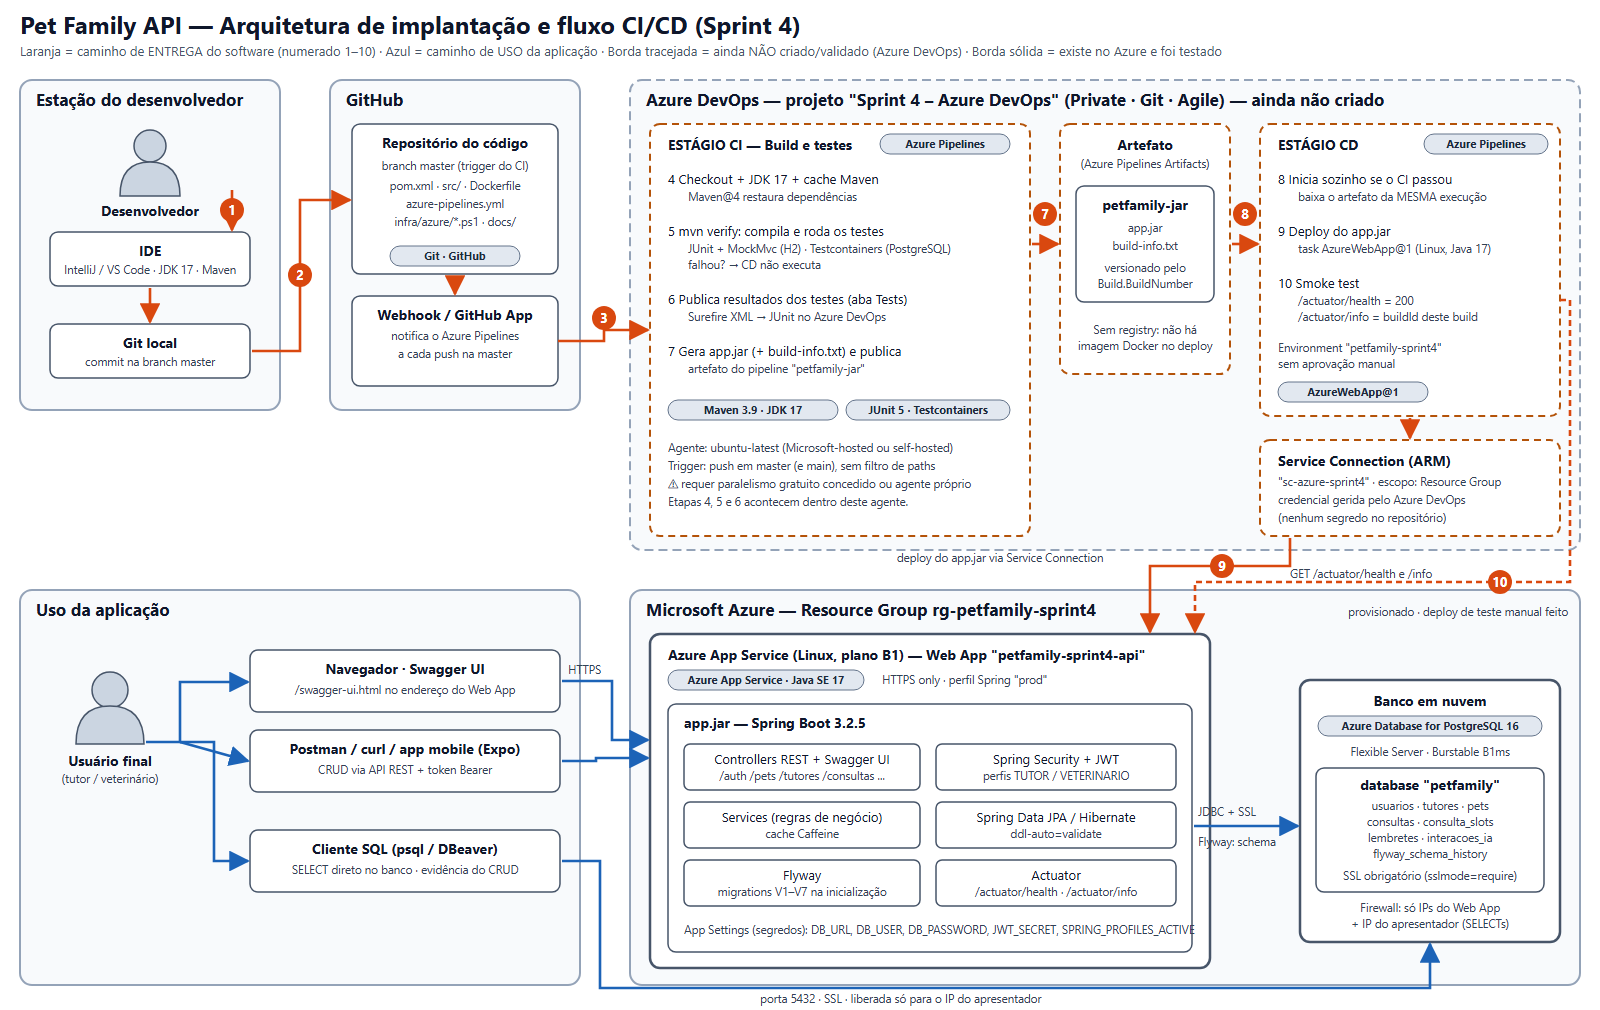
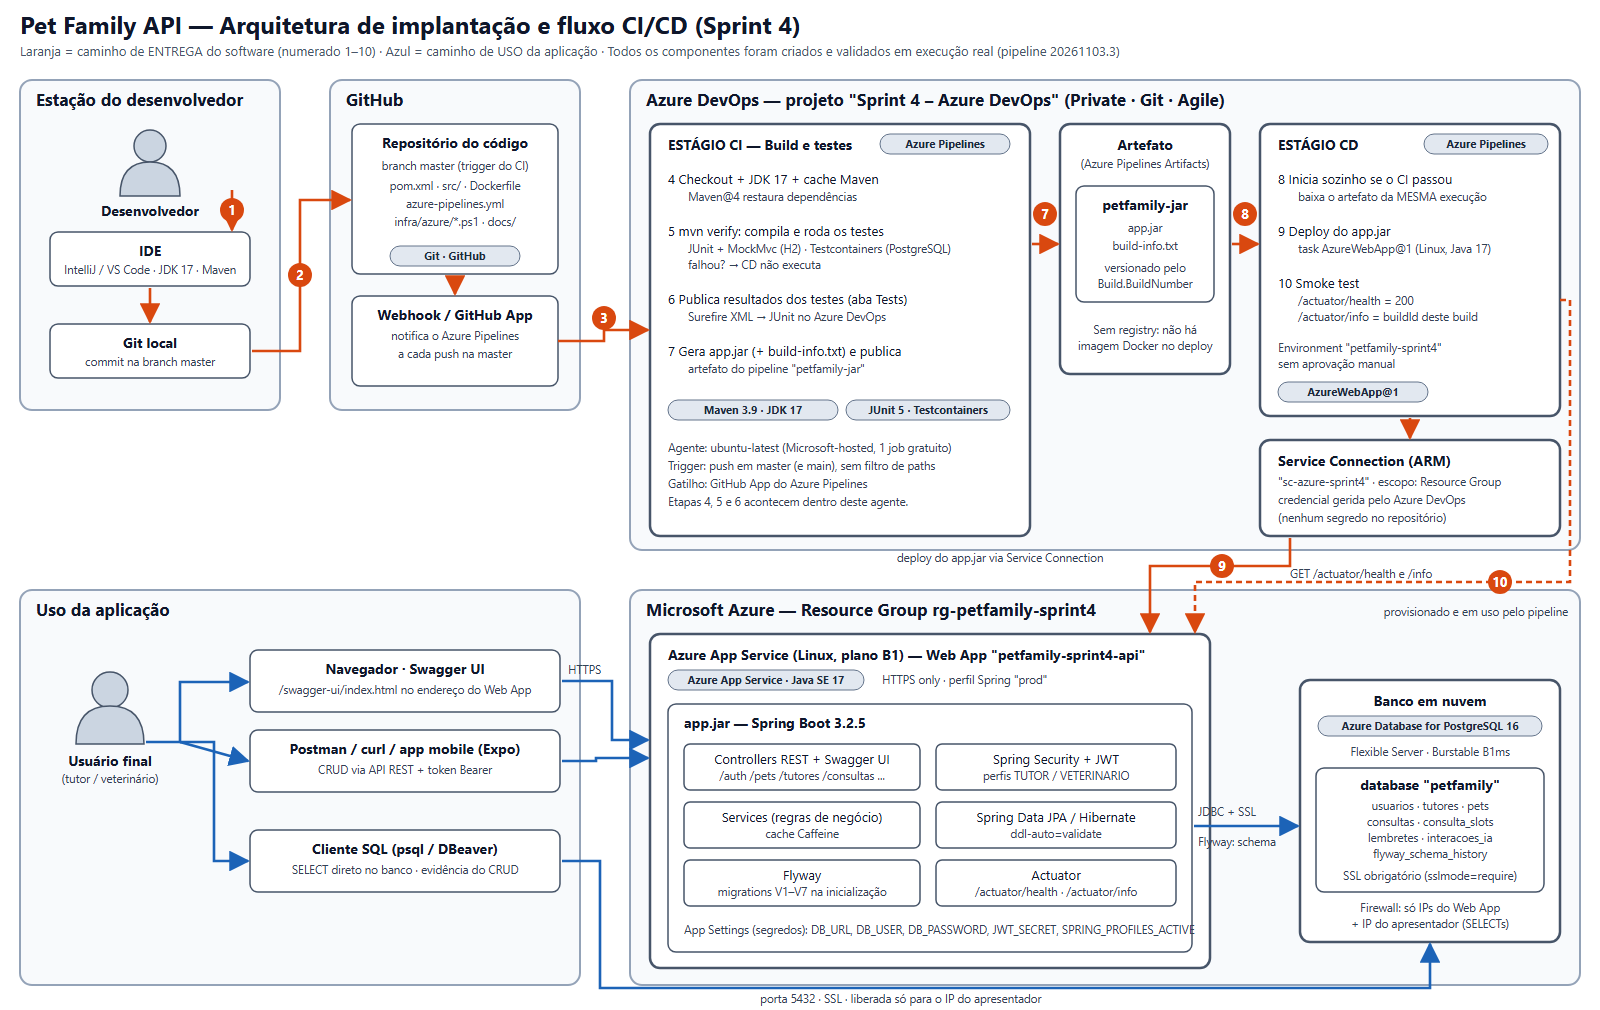
docs: atualiza README, diagrama e links da entrega da Sprint 4

diff --git a/README.md b/README.md
@@ -1,19 +1,21 @@
 # Pet Family API
 
 > Backend RESTful para acompanhamento contínuo da saúde dos pets
-> **Challenge CLYVO VET 2026 — FIAP | Java Advanced — Entrega 3**
+> **Challenge CLYVO VET 2026 — FIAP | Java Advanced (Entrega 3) · DevOps Tools & Cloud Computing (Sprint 4)**
 
-🎥 **Vídeo de apresentação:** [https://youtu.be/YUA4fIXr-tg](https://youtu.be/YUA4fIXr-tg)
+## Links da entrega
 
----
-  
-🌐 **API online (deploy):** [https://petfamily-api.onrender.com](https://petfamily-api.onrender.com)                         
-❤ **Health check:** [https://petfamily-api.onrender.com/actuator/health](https://petfamily-api.onrender.com/actuator/health)  
-📖 **Swagger:** [https://petfamily-api.onrender.com/swagger-ui.html](https://petfamily-api.onrender.com/swagger-ui.html)
-
-> ⏱ A API roda no plano gratuito do Render e "dorme" após ~15 min sem uso. A primeira requisição depois disso pode levar até 1–2 minutos (cold start).
-
-📱 **Repositório do app mobile:** [https://github.com/PET-FAMILYY/PET-FAMILY-MOBILE](https://github.com/PET-FAMILYY/PET-FAMILY-MOBILE)
+| Item | Link |
+|---|---|
+| Repositório GitHub | [PET-FAMILYY/PET-FAMILY-NUVEM](https://github.com/PET-FAMILYY/PET-FAMILY-NUVEM) (branch `master`) |
+| Projeto Azure DevOps | [Sprint 4 – Azure DevOps](https://dev.azure.com/petfamily-sprint4/Sprint%204%20%E2%80%93%20Azure%20DevOps) |
+| Pipelines (CI/CD) | [Execuções](https://dev.azure.com/petfamily-sprint4/Sprint%204%20%E2%80%93%20Azure%20DevOps/_build) |
+| Aplicação no Azure Web App | https://petfamily-sprint4-api.azurewebsites.net |
+| Health check | https://petfamily-sprint4-api.azurewebsites.net/actuator/health |
+| Versão publicada (`buildId`) | https://petfamily-sprint4-api.azurewebsites.net/actuator/info |
+| Swagger | https://petfamily-sprint4-api.azurewebsites.net/swagger-ui/index.html |
+| Vídeo (YouTube) | **pendente**, será incluído após a gravação |
+| App mobile | [PET-FAMILY-MOBILE](https://github.com/PET-FAMILYY/PET-FAMILY-MOBILE) |
 
 ---
 
@@ -23,7 +25,7 @@ Ciclo demonstrado: **alteração no código → push na `master` → CI automát
 
 ![Arquitetura e CI/CD](docs/sprint4/arquitetura-cicd.png)
 
-Fonte editável: [`docs/sprint4/arquitetura-cicd.svg`](docs/sprint4/arquitetura-cicd.svg) (SVG puro, abre no draw.io/Inkscape/navegador). Borda sólida = existe no Azure; tracejada = Azure DevOps, **ainda não criado**.
+Fonte editável: [`docs/sprint4/arquitetura-cicd.svg`](docs/sprint4/arquitetura-cicd.svg) (SVG puro, abre no draw.io/Inkscape/navegador). Laranja = caminho de entrega (etapas 1–10); azul = caminho de uso da aplicação.
 
 | Item | Decisão |
 |---|---|
@@ -46,21 +48,23 @@ Fonte editável: [`docs/sprint4/arquitetura-cicd.svg`](docs/sprint4/arquitetura-
 
 **Testes (local e CI):** `mvn verify` — 28 testes (23 de fluxos de negócio, 3 de CRUD/persistência de pets com SELECT direto na tabela, 1 contexto, 1 migrations V1–V7 em PostgreSQL real via Testcontainers; este último só roda com Docker, ou seja, no agente `ubuntu-latest` do CI).
 
-**Execução local:** `mvn spring-boot:run` (H2, `http://localhost:9090/swagger-ui.html`) ou Docker Compose com PostgreSQL (seção "Como Rodar"). Variáveis do perfil `prod`: `DB_URL` (ou `DB_HOST`/`DB_PORT`/`DB_NAME`), `DB_USER`, `DB_PASSWORD`, `JWT_SECRET`, `CORS_ALLOWED_ORIGINS`, `SWAGGER_ENABLED`.
+**Execução local:** `mvn spring-boot:run` (H2, `http://localhost:9090/swagger-ui/index.html`) ou Docker Compose com PostgreSQL (seção "Como Rodar"). Variáveis do perfil `prod`: `DB_URL` (ou `DB_HOST`/`DB_PORT`/`DB_NAME`), `DB_USER`, `DB_PASSWORD`, `JWT_SECRET`, `CORS_ALLOWED_ORIGINS`, `SWAGGER_ENABLED`.
 
 ### Status e pendências reais (Sprint 4)
 
 | Item | Status |
 |---|---|
-| Build, 28 testes (27 passam, 1 ignorado sem Docker) e JAR com `build-info` | Verificado localmente |
-| CRUD de pets ponta a ponta (H2 local, porta 9191) | Verificado localmente |
-| Azure: Resource Group `rg-petfamily-sprint4`, PostgreSQL Flexible Server `petfamily-sprint4-pg` (banco `petfamily`), plano Linux B1, Web App `petfamily-sprint4-api` | **Criados** via `infra/azure/provision.ps1` (assinatura RM565139, região `brazilsouth`) |
-| Deploy **manual** de teste do JAR no Web App (`az webapp deploy`, fora do pipeline) | Verificado: `/actuator/health` = UP, Flyway V1–V7 aplicado no PostgreSQL do Azure |
-| CRUD de pets na API publicada + SELECT direto no PostgreSQL do Azure (registros `DEMO`) | Verificado: inserção, leitura, atualização, exclusão (0 linhas) e limpeza |
-| `azure-pipelines.yml` | YAML sintaticamente válido; **nunca executado no Azure DevOps** (o deploy acima foi manual, não é CI/CD) |
-| Projeto Azure DevOps, convite/acesso Basic do professor, Service Connection | **Não criados** (faltam nome da organização, nome/e-mail do professor e turmas) |
-| Repositório GitHub com este código | A pasta local **não é um repositório Git próprio**; o código ainda precisa ser publicado no GitHub escolhido |
-| Link do vídeo no YouTube e PDF final | **Pendentes** (vídeo ainda não gravado) |
+| Build, testes (28; 27 executam e 1 depende de Docker) e JAR com `build-info` | Verificado localmente e no CI |
+| Azure: Resource Group `rg-petfamily-sprint4`, PostgreSQL Flexible Server `petfamily-sprint4-pg` (banco `petfamily`), plano Linux B1, Web App `petfamily-sprint4-api` (região `brazilsouth`) | Criados via `infra/azure/provision.ps1` |
+| Flyway V1–V7 no PostgreSQL do Azure e `/actuator/health` = UP | Verificado |
+| CRUD de pets na API publicada, com SELECT direto no PostgreSQL do Azure (registros `DEMO`) | Verificado: inserção, leitura, atualização, exclusão (0 linhas) e limpeza |
+| Organização `petfamily-sprint4` e projeto "Sprint 4 – Azure DevOps" (privado, Git, Agile) | Criados |
+| Service Connection `sc-azure-sprint4` (Azure Resource Manager) | Criada |
+| Repositório GitHub `PET-FAMILYY/PET-FAMILY-NUVEM`, branch `master` | Publicado |
+| Pipeline: execução manual `20261103.1` e execuções disparadas por push na `master` (CI → artefato `petfamily-jar` → CD → deploy → smoke test) | Verificado: a `20261103.3` passou nos dois estágios e o app publicado mostra o `buildId` dessa execução. A `20261103.2` falhou no smoke test (corrida logo após o deploy), corrigido |
+| Convite do professor com acesso **Basic** e permissão de leitura no projeto | **Pendente** (falta nome e e-mail do professor) |
+| Descrição do projeto com o nome do professor e as turmas dos integrantes | **Pendente** (falta nome do professor e turmas) |
+| Vídeo no YouTube e PDF final | **Pendentes** |
 
 ---
 
@@ -76,7 +80,7 @@ Fonte editável: [`docs/sprint4/arquitetura-cicd.svg`](docs/sprint4/arquitetura-
 8. [Fluxos de negócio (além do CRUD)](#fluxos-de-negócio-além-do-crud)
 9. [Endpoints](#endpoints)
 10. [Como Rodar](#como-rodar)
-11. [Deploy online (Render)](#deploy-online-render)
+11. [Deploy alternativo (Render)](#deploy-alternativo-render)
 12. [Contas de demonstração (perfil `dev`)](#contas-de-demonstração-perfil-dev)
 13. [Exemplos de Payload](#exemplos-de-payload)
 14. [Correspondência requisitos × implementação](#correspondência-requisitos--implementação)
@@ -104,7 +108,7 @@ A Pet Family API centraliza e gerencia todas as informações relacionadas à sa
 - **Linha do tempo do pet** — histórico de saúde unificado (consultas + cuidados preventivos + conversas com a IA) em uma única lista cronológica
 - **Aviso diário de cuidados** — rotina agendada que identifica cuidados pendentes que vencem em até 3 dias
 - **Proteção contra força bruta no login** — após 5 falhas seguidas o acesso é bloqueado temporariamente (HTTP 429)
-- **PostgreSQL em produção**, Docker, CI no GitHub Actions e deploy online no Render
+- **PostgreSQL em produção**, Docker, CI/CD no Azure DevOps com deploy no Azure Web App (Sprint 4) e CI no GitHub Actions
 
 
 ---
@@ -187,7 +191,7 @@ Get-Content .env.oracle | ForEach-Object {
 mvn spring-boot:run
 ```
 
-Sinais de que deu certo no log: `HikariPool-1 - Added connection oracle.jdbc.driver.T4CConnection` e `Started PetFamilyApplication`. A API fica em **http://localhost:9090** e o Swagger em **http://localhost:9090/swagger-ui.html**.
+Sinais de que deu certo no log: `HikariPool-1 - Added connection oracle.jdbc.driver.T4CConnection` e `Started PetFamilyApplication`. A API fica em **http://localhost:9090** e o Swagger em **http://localhost:9090/swagger-ui/index.html**.
 
 ### 4. Requisições de teste
 
@@ -309,7 +313,10 @@ SELECT * FROM auditoria_consultas_s4 ORDER BY id DESC;   -- INSERT/UPDATE regist
 | Docker / Docker Compose | — |
 | Testcontainers (teste de migrations no PostgreSQL) | — |
 | GitHub Actions (CI) | — |
-| Render (deploy) | — |
+| Azure DevOps Pipelines (CI/CD) | YAML (`azure-pipelines.yml`) |
+| Azure Web App (Linux, Java SE 17) | deploy da Sprint 4 |
+| Azure Database for PostgreSQL Flexible Server | 16 |
+| Render (deploy da entrega anterior) | — |
 | Spring Actuator (health check) | — |
 
 ---
@@ -358,13 +365,13 @@ Um `Usuario` com role `TUTOR` está sempre vinculado 1:1 a um `Tutor` (criado ju
 | `JWT_EXPIRATION_MS` | `86400000` (24h) | Validade do token. |
 | `CORS_ALLOWED_ORIGINS` | `*` | Lista separada por vírgula em produção. |
 | `SPRING_PROFILES_ACTIVE` | `dev` | Ver seção Flyway/dados de demonstração. Valores: `dev` (H2 + dados demo), `prod` (PostgreSQL), `prod,demo` (PostgreSQL + dados demo), `test`. |
-| `PORT` | `9090` | Porta HTTP. O Render injeta esse valor automaticamente. |
+| `PORT` | `9090` | Porta HTTP. O Render injeta esse valor; no Azure Web App a porta vem de `--server.port` no comando de inicialização. |
 | `DB_URL` | — | URL JDBC completa (opcional; tem prioridade sobre `DB_HOST`). |
 | `DB_HOST` / `DB_PORT` / `DB_NAME` | — / `5432` / — | Dados do PostgreSQL (perfil `prod`). |
 | `DB_USER` / `DB_PASSWORD` | — | Credenciais do PostgreSQL (perfil `prod`). |
 | `SWAGGER_ENABLED` | `false` em `prod` | Liga/desliga Swagger UI e `/api-docs` em produção. |
 
-> Em `prod`, `JWT_SECRET` é **obrigatório** (no Render é gerado automaticamente).
+> Em `prod`, `JWT_SECRET` é **obrigatório** (no Render é gerado automaticamente; no Azure é um App Setting do Web App).
 
 Exemplo (PowerShell, para rodar com segredo customizado):
 ```powershell
@@ -396,8 +403,9 @@ O schema é 100% gerenciado pelo Flyway (`src/main/resources/db/migration`). O H
 
 - **Desenvolvimento local:** H2 em **arquivo** (`./data/petfamily.mv.db`, ignorado pelo git) — os dados persistem entre reinicializações. `AUTO_SERVER=TRUE` permite abrir o H2 Console com a aplicação já rodando.
 - **Testes automatizados:** H2 em **memória**, isolado (`src/test/resources/application-test.properties`, perfil `test`) — cada execução de teste começa de um banco limpo, migrado do zero.
-- Não há conexão com banco externo/nuvem — isso é documentado aqui de propósito, para não passar a impressão de que existe algo além do H2 local. *(Válido para dev/testes; veja o item abaixo para produção.)*
-- **Produção (Render) e Docker Compose:** **PostgreSQL** (perfil `prod`), com o schema criado pelo Flyway na subida (V1–V7). O `h2-console` não existe em produção.
+- Em desenvolvimento e testes não há banco externo: só o H2 local/em memória.
+- **Banco em nuvem (Sprint 4):** **Azure Database for PostgreSQL – Flexible Server 16** (perfil `prod`, `DB_URL` com `sslmode=require`), com o schema criado pelo Flyway na subida (V1–V7). O firewall libera apenas os IPs de saída do Web App e o IP de quem consulta o banco.
+- **Docker Compose e Render:** também **PostgreSQL** (perfil `prod`). O `h2-console` não existe em produção.
 - **Teste de migrations em PostgreSQL real:** `PostgresMigrationTest` (Testcontainers) executa as 7 migrations; é ignorado automaticamente se não houver Docker e roda no CI.
 
 ### Dados de demonstração
@@ -548,7 +556,8 @@ Implementação: `LinhaDoTempoService` (somente leitura, `@Transactional(readOnl
 ### Infraestrutura
 | Método | Rota | Perfil | Descrição |
 |---|---|---|---|
-| GET | `/actuator/health` | público | Health check (usado pelo Render e pelo Docker) |
+| GET | `/actuator/health` | público | Health check (usado pelo Azure, Render e Docker) |
+| GET | `/actuator/info` | público | Versão e `buildId` publicados (usado pelo smoke test do CD) |
 
 ---
 
@@ -570,7 +579,7 @@ mvn test
 ```
 Inclui testes de contexto (Flyway + Security) e testes de integração de ponta a ponta (`FluxosDeNegocioIntegrationTest`) cobrindo login, isolamento entre tutores, agendamento/conflito/cancelamento/atendimento e conclusão/recorrência de cuidados — ver seção "Testes" abaixo.
 
-> Atualização: a suíte agora tem 25 testes — contexto, integração de ponta a ponta e o `PostgresMigrationTest` (Testcontainers, ignorado se não houver Docker).
+> A suíte tem 28 testes: contexto, integração de ponta a ponta, CRUD de pets com conferência por SELECT e o `PostgresMigrationTest` (Testcontainers, ignorado se não houver Docker; roda no agente do CI).
 
 ### Via Docker Compose (PostgreSQL, igual à produção)
 Pré-requisito: Docker.
@@ -580,15 +589,15 @@ docker compose up --build
 ```
 - API: http://localhost:9090
 - Health: http://localhost:9090/actuator/health → `{"status":"UP"}`
-- Swagger: http://localhost:9090/swagger-ui.html
+- Swagger: http://localhost:9090/swagger-ui/index.html
 
 Para apagar o banco local e recomeçar: `docker compose down -v`.
 
 ---
 
-## Deploy online (Render)
+## Deploy alternativo (Render)
 
-A aplicação está publicada em **https://petfamily-api.onrender.com**, com banco **PostgreSQL gerenciado** no Render.
+Configuração mantida da entrega anterior. O deploy avaliado na Sprint 4 é o **Azure Web App** (seção "Sprint 4" no topo). Este blueprint cria um banco **PostgreSQL gerenciado** e o serviço web no Render, e o ambiente pode estar desativado.
 
 | Item | Como foi feito |
 |---|---|
@@ -602,13 +611,12 @@ A aplicação está publicada em **https://petfamily-api.onrender.com**, com ban
 
 **Para republicar:** basta dar `git push` na branch `main`; o Render faz o build e o deploy automaticamente.
 
-**Teste rápido do ambiente online:**
+**Teste rápido do ambiente do Azure:**
 ```bash
-curl https://petfamily-api.onrender.com/actuator/health
-curl -X POST https://petfamily-api.onrender.com/auth/login \
-  -H "Content-Type: application/json" \
-  -d '{"email":"veterinario@petfamily.com","senha":"senha123"}'
+curl https://petfamily-sprint4-api.azurewebsites.net/actuator/health
+curl https://petfamily-sprint4-api.azurewebsites.net/actuator/info
 ```
+No Azure o perfil é `prod` (sem dados de demonstração). Para testar o CRUD, registre um tutor em `POST /auth/registrar`, faça login em `POST /auth/login` e use o token Bearer em `/pets` (roteiro completo em [`docs/sprint4/roteiro-video.md`](docs/sprint4/roteiro-video.md)).
 
 ---
 
@@ -682,7 +690,7 @@ curl -X POST https://petfamily-api.onrender.com/auth/login \
 | Spring Security, 2 perfis, rotas protegidas (30 pts) | `security/*`, `@PreAuthorize` nos controllers + checagem de posse nos services |
 | Funcionalidades além de CRUD (20 pts) | Agendamento/atendimento de consultas; cuidado preventivo com recorrência |
 | Funcionalidades além de CRUD — adicionadas na entrega final | **Linha do tempo do pet**; aviso diário de cuidados; bloqueio de login por tentativas |
-| Deploy online | Render + PostgreSQL gerenciado (`render.yaml`, `Dockerfile`) — URL no topo deste README |
+| Deploy online | Azure Web App + Azure Database for PostgreSQL via Azure DevOps (`azure-pipelines.yml`, `infra/azure/`); Render na entrega anterior (`render.yaml`, `Dockerfile`) — URLs no topo deste README |
 | Flyway — atualização | 7 migrations (V1 por banco + V2–V7 comuns) |
 | Qualidade / integração contínua | GitHub Actions, testes de integração e Testcontainers |
 
@@ -780,12 +788,12 @@ Lista objetiva de toda alteração no código Java, para facilitar a correção.
 
 ## Integrantes
 
-| Nome | RM |
-|---|---|
-| Pedro Vaz Ferreira | 566551 |
-| João Victor Luiz Oliveira Resende | 565139 |
-| Vitor Dias dos Santos |  RM565422 |
-| Felipe Kirschner Modesto | RM561810 |
+| Nome | RM | Turma |
+|---|---|---|
+| Felipe Kirschner Modesto | RM561810 | 2TDSPG |
+| João Victor Luiz de Oliveira Resende | RM565139 | 2TDSPG |
+| Pedro Henrique Vaz Ferreira | RM566551 | 2TDSPG |
+| Vitor Dias dos Santos | RM565422 | 2TDSPG |
 
 ---
 
@@ -798,14 +806,16 @@ PET--FAMILY-JAVA-main/
 ├── Dockerfile
 ├── docker-compose.yml
 ├── render.yaml
+├── azure-pipelines.yml            ← CI/CD do Azure DevOps
 ├── .env.example
 ├── .github/workflows/ci.yml
+├── infra/azure/                   ← scripts de provisionamento (Azure e Azure DevOps)
 ├── docs/
 │   ├── cronograma.md
 │   ├── arquitetura.md
 │   ├── endpoints.md
-│   └── postman_collection.json
-├── PET-FAMILY-MOBILE-main/        ← app Expo (ver README próprio)
+│   ├── postman_collection.json
+│   └── sprint4/                   ← diagrama, roteiro do vídeo, CRUD, SELECTs, gerador do PDF
 └── src/
     ├── main/
     │   ├── java/br/com/fiap/petfamily/

diff --git a/docs/sprint4/roteiro-video.md b/docs/sprint4/roteiro-video.md
@@ -15,7 +15,7 @@ Arquivo: [`OpenApiConfig.java`](../../src/main/java/br/com/fiap/petfamily/config
 .version("1.1.0-sprint4")
 ```
 
-- **Antes** (mostrar na aplicação publicada): `https://<webapp>.azurewebsites.net/swagger-ui.html` exibe a badge `1.0.0`;
+- **Antes** (mostrar na aplicação publicada): `https://<webapp>.azurewebsites.net/swagger-ui/index.html` exibe a badge `1.0.0`;
   `curl https://<webapp>.azurewebsites.net/api-docs | jq .info.version` → `"1.0.0"`.
 - **Depois** do deploy: a badge e o `info.version` passam a `1.1.0-sprint4`, e `/actuator/info` mostra o novo
   `build.buildId` (número do build do Azure DevOps). Alteração pequena, visível e sem risco para os testes.

diff --git a/docs/sprint4/azure-devops-setup.md b/docs/sprint4/azure-devops-setup.md
@@ -115,7 +115,7 @@ escopo: **Resource Group `rg-petfamily-sprint4`** → nome **`sc-azure-sprint4`*
 2. Estágio **CI**: aba *Tests* com os resultados; aba *Artifacts* com `petfamily-jar` (`app.jar`, `build-info.txt`).
 3. Estágio **CD** inicia sozinho; o passo *Smoke test* confirma `/actuator/health` = 200 e que `/actuator/info` mostra
    `build.buildId` igual ao `Build.BuildNumber` da execução.
-4. Abra `https://<webapp>.azurewebsites.net/swagger-ui.html` e rode `docs/sprint4/crud-demo.ps1`.
+4. Abra `https://<webapp>.azurewebsites.net/swagger-ui/index.html` e rode `docs/sprint4/crud-demo.ps1`.
 
 ## 8. Riscos conhecidos de configuração
 
